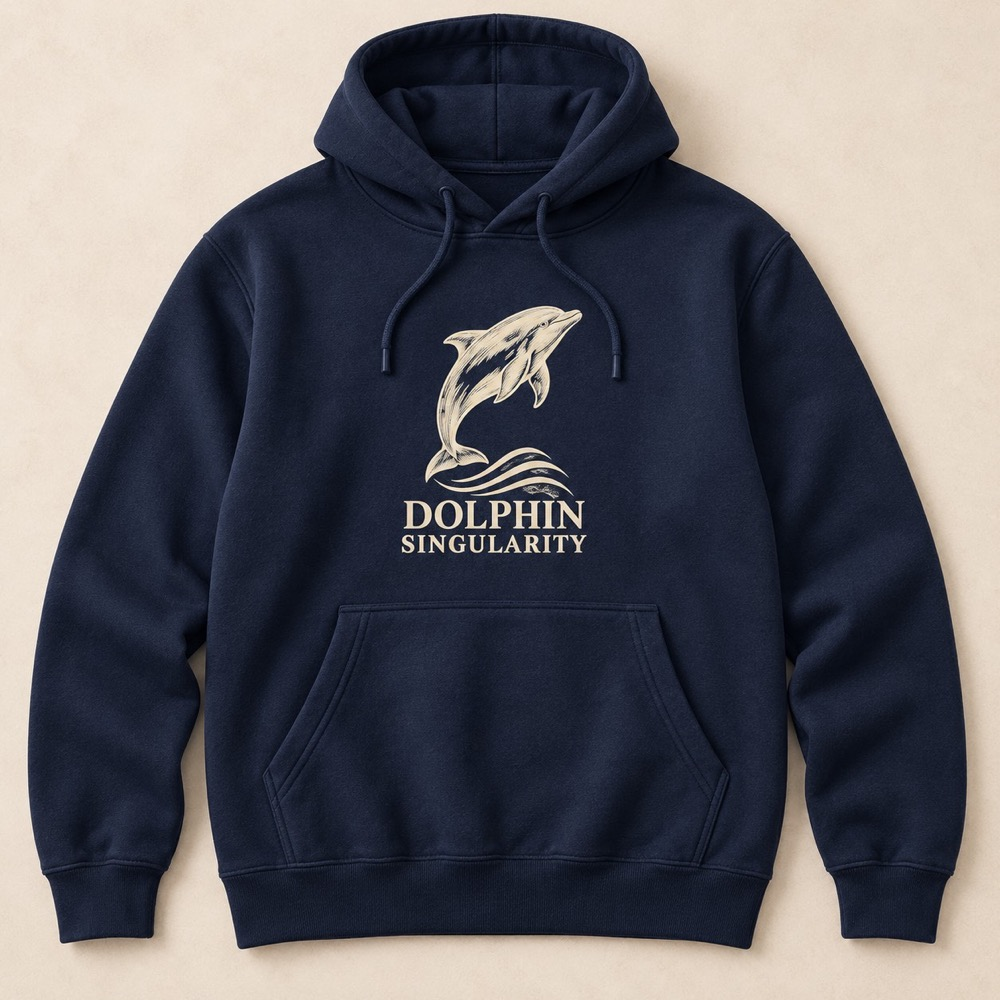
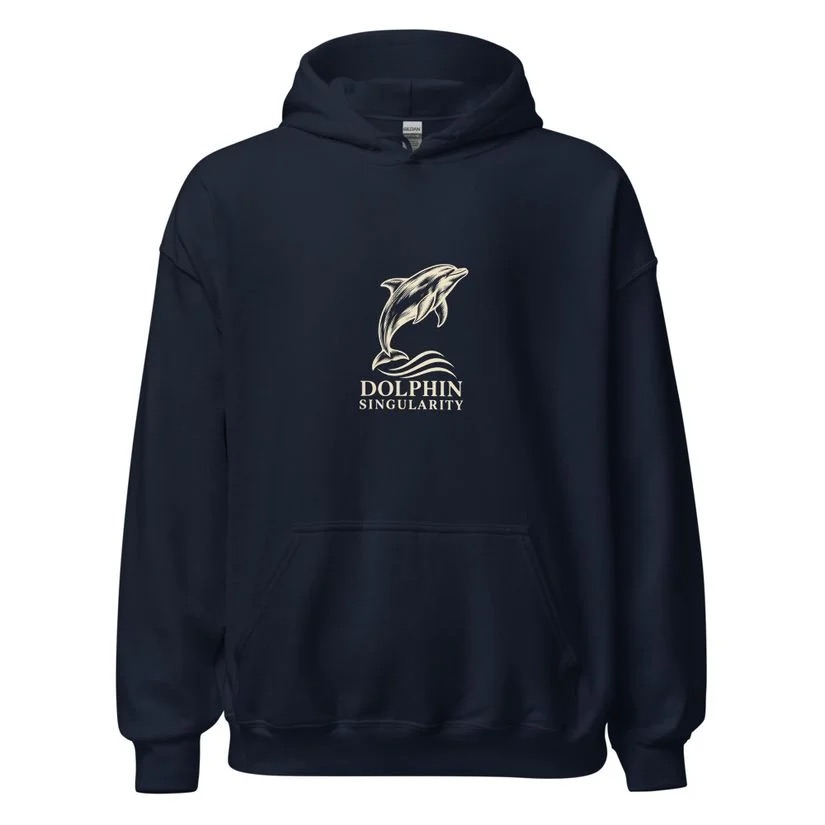
Connect published Printful products and refine graphic placement

diff --git a/store.html b/store.html
@@ -46,11 +46,11 @@
                 <p class="merch-hero__intro">For complicated minds.<br>And anyone making weird noises.</p>
                 <p class="merch-hero__description">Original dolphin artwork, everyday tees, and a hoodie for the quieter days. A little ocean intelligence. A healthy disrespect for unnecessary meetings.</p>
                 <a class="merch-button" href="#collection">Explore the collection <span aria-hidden="true">&darr;</span></a>
-                <p class="merch-hero__note" id="shopStatus">Collection preview &nbsp;&middot;&nbsp; Orders are not open yet</p>
+                <p class="merch-hero__note" id="shopStatus">Shop on Printful &nbsp;&middot;&nbsp; US delivery</p>
             </div>
             <figure class="merch-hero__image">
-                <img src="images/merch/classic-tee.jpg" alt="The Original Tee concept: ivory engraved dolphin artwork on a midnight navy shirt" width="1000" height="1000" fetchpriority="high">
-                <figcaption>01 / The Original Tee <span>Design mockup</span></figcaption>
+                <img src="images/merch/classic-tee.jpg" alt="Supplier mockup of ivory dolphin artwork on the navy Original Tee" width="1000" height="1000" fetchpriority="high">
+                <figcaption>01 / The Original Tee <span>Printful mockup</span></figcaption>
             </figure>
         </header>
         <div class="merch-strip">
@@ -71,7 +71,7 @@
             <div class="merch-grid">
                 <article class="merch-card" data-product="classic-tee" data-collection="originals" data-kind="T-shirt">
                     <a class="merch-card__image-link" href="images/merch/classic-tee.jpg" data-preview="classic-tee" aria-label="Preview The Original Tee">
-                        <img src="images/merch/classic-tee.jpg" alt="Design mockup of The Original Tee in Midnight navy / ivory" width="1000" height="1000" loading="lazy">
+                        <img src="images/merch/classic-tee.jpg" alt="Supplier mockup of The Original Tee in Midnight navy / ivory" width="1000" height="1000" loading="lazy">
                         <span class="merch-card__tag">T-shirt</span>
                     </a>
                     <div class="merch-card__body">
@@ -79,14 +79,14 @@
                         <h3>The Original Tee</h3>
                         <p>An engraved dolphin, flowing acoustic lines, and the Dolphin Singularity wordmark. The original design in a classic crewneck format.</p>
                         <div class="merch-card__bottom">
-                            <span class="merch-card__price">Pricing at launch</span>
-                            <a href="images/merch/classic-tee.jpg" class="merch-card__action" data-preview="classic-tee">View design <span aria-hidden="true">&rarr;</span></a>
+                            <span class="merch-card__price">$29</span>
+                            <a href="https://dolphinsingularity.printful.me/product/the-original-tee-dolphin-singularity" class="merch-card__action">Choose size on Printful <span aria-hidden="true">&rarr;</span></a>
                         </div>
                     </div>
                 </article>
                 <article class="merch-card" data-product="classic-hoodie" data-collection="originals" data-kind="Hoodie">
                     <a class="merch-card__image-link" href="images/merch/classic-hoodie.jpg" data-preview="classic-hoodie" aria-label="Preview The Original Hoodie">
-                        <img src="images/merch/classic-hoodie.jpg" alt="Design mockup of The Original Hoodie in Midnight navy / ivory" width="1000" height="1000" loading="lazy">
+                        <img src="images/merch/classic-hoodie.jpg" alt="Supplier mockup of The Original Hoodie in Midnight navy / ivory" width="1000" height="1000" loading="lazy">
                         <span class="merch-card__tag">Hoodie</span>
                     </a>
                     <div class="merch-card__body">
@@ -94,29 +94,29 @@
                         <h3>The Original Hoodie</h3>
                         <p>The same dolphin artwork, scaled for the chest of a pullover hoodie. A quieter companion to the graphic tees.</p>
                         <div class="merch-card__bottom">
-                            <span class="merch-card__price">Pricing at launch</span>
-                            <a href="images/merch/classic-hoodie.jpg" class="merch-card__action" data-preview="classic-hoodie">View design <span aria-hidden="true">&rarr;</span></a>
+                            <span class="merch-card__price">$49</span>
+                            <a href="https://dolphinsingularity.printful.me/product/the-original-hoodie-dolphin-singularity" class="merch-card__action">Choose size on Printful <span aria-hidden="true">&rarr;</span></a>
                         </div>
                     </div>
                 </article>
                 <article class="merch-card" data-product="whistle-meeting" data-collection="graphics" data-kind="T-shirt">
                     <a class="merch-card__image-link" href="images/merch/whistle-meeting-tee.jpg" data-preview="whistle-meeting" aria-label="Preview The Meeting Tee">
-                        <img src="images/merch/whistle-meeting-tee.jpg" alt="Design mockup of The Meeting Tee in Natural / ocean teal" width="1000" height="1000" loading="lazy">
+                        <img src="images/merch/whistle-meeting-tee.jpg" alt="Supplier mockup of The Meeting Tee in Natural / ocean teal" width="1000" height="1000" loading="lazy">
                         <span class="merch-card__tag">T-shirt</span>
                     </a>
                     <div class="merch-card__body">
                         <p class="merch-eyebrow">Natural / ocean teal</p>
                         <h3>The Meeting Tee</h3>
-                        <p>“This meeting could have been a whistle.” For everyone who has sat through a forty-minute conversation with about three seconds of useful information.</p>
+                        <p>A very tired dolphin, one tiny laptop, and absolutely no caption needed. A larger illustration centered on the chest for everyone with one meeting too many.</p>
                         <div class="merch-card__bottom">
-                            <span class="merch-card__price">Pricing at launch</span>
-                            <a href="images/merch/whistle-meeting-tee.jpg" class="merch-card__action" data-preview="whistle-meeting">View design <span aria-hidden="true">&rarr;</span></a>
+                            <span class="merch-card__price">$29</span>
+                            <a href="https://dolphinsingularity.printful.me/product/the-meeting-tee-this-meeting-could-have-been-a-whistle" class="merch-card__action">Choose size on Printful <span aria-hidden="true">&rarr;</span></a>
                         </div>
                     </div>
                 </article>
                 <article class="merch-card" data-product="fluent-dolphin" data-collection="graphics" data-kind="T-shirt">
                     <a class="merch-card__image-link" href="images/merch/fluent-dolphin-tee.jpg" data-preview="fluent-dolphin" aria-label="Preview The Fluent Tee">
-                        <img src="images/merch/fluent-dolphin-tee.jpg" alt="Design mockup of The Fluent Tee in Natural / ocean teal" width="1000" height="1000" loading="lazy">
+                        <img src="images/merch/fluent-dolphin-tee.jpg" alt="Supplier mockup of The Fluent Tee in Natural / ocean teal" width="1000" height="1000" loading="lazy">
                         <span class="merch-card__tag">T-shirt</span>
                     </a>
                     <div class="merch-card__body">
@@ -124,14 +124,14 @@
                         <h3>The Fluent Tee</h3>
                         <p>“Fluent in EEE EEE EEE.” Excellent communication skills. Unconventional delivery. A confident little dolphin with a lot to say.</p>
                         <div class="merch-card__bottom">
-                            <span class="merch-card__price">Pricing at launch</span>
-                            <a href="images/merch/fluent-dolphin-tee.jpg" class="merch-card__action" data-preview="fluent-dolphin">View design <span aria-hidden="true">&rarr;</span></a>
+                            <span class="merch-card__price">$29</span>
+                            <a href="https://dolphinsingularity.printful.me/product/the-fluent-tee-eee-eee-eee" class="merch-card__action">Choose size on Printful <span aria-hidden="true">&rarr;</span></a>
                         </div>
                     </div>
                 </article>
                 <article class="merch-card" data-product="weird-noises" data-collection="graphics" data-kind="T-shirt">
                     <a class="merch-card__image-link" href="images/merch/weird-noises-tee.jpg" data-preview="weird-noises" aria-label="Preview The Highly Intelligent Tee">
-                        <img src="images/merch/weird-noises-tee.jpg" alt="Design mockup of The Highly Intelligent Tee in Natural / ocean teal" width="1000" height="1000" loading="lazy">
+                        <img src="images/merch/weird-noises-tee.jpg" alt="Supplier mockup of The Highly Intelligent Tee in Natural / ocean teal" width="1000" height="1000" loading="lazy">
                         <span class="merch-card__tag">T-shirt</span>
                     </a>
                     <div class="merch-card__body">
@@ -139,30 +139,30 @@
                         <h3>The Highly Intelligent Tee</h3>
                         <p>“Highly intelligent. Still making weird noises.” Two things can be true. A cheerful tribute to complicated minds and unusual conversations.</p>
                         <div class="merch-card__bottom">
-                            <span class="merch-card__price">Pricing at launch</span>
-                            <a href="images/merch/weird-noises-tee.jpg" class="merch-card__action" data-preview="weird-noises">View design <span aria-hidden="true">&rarr;</span></a>
+                            <span class="merch-card__price">$29</span>
+                            <a href="https://dolphinsingularity.printful.me/product/the-highly-intelligent-tee-weird-noises" class="merch-card__action">Choose size on Printful <span aria-hidden="true">&rarr;</span></a>
                         </div>
                     </div>
                 </article>
             </div>
-            <p class="merch-caption">Images are design mockups. Final garment options, sizing, placement, and prices will be confirmed in the live Printful product listings.</p>
+            <p class="merch-caption">Images are supplier-generated Printful mockups of the configured products. Check the product listing for current sizes, prices, and delivery estimates. Color and placement may vary slightly in production.</p>
         </section>
         <section class="merch-about" aria-labelledby="merchAboutHeading">
             <div><p class="merch-eyebrow">A serious interest. An unserious wardrobe.</p><h2 id="merchAboutHeading">Big brains.<br>Good company.</h2></div>
             <div>
                 <p>Dolphin Singularity explores the strange, fascinating space between animal minds and human technology. This collection takes that curiosity off the page.</p>
                 <p>The original tee and hoodie carry the publication’s dolphin artwork. The graphic tees are for people who appreciate a clever animal, a questionable noise, and a joke that does not need a footnote. The slogans are jokes, not translations of dolphin calls.</p>
-                <p>Start with the design that feels like you. When the shop opens, the linked Printful listing will show the actual garment, available sizes, price, and delivery information before you buy.</p>
+                <p>Start with the design that feels like you. The linked Printful listing shows the garment, available sizes, price, and delivery information before you buy.</p>
                 <a href="research.html">Meet the research behind the curiosity &rarr;</a>
             </div>
         </section>
         <section class="merch-faq" aria-labelledby="faqHeading">
             <p class="merch-eyebrow">Before you make a splash</p>
             <h2 id="faqHeading">The practical details.</h2>
-            <details><summary>Can I order now?</summary><p id="orderingAnswer">Not yet. This is the collection preview while the Printful shop and Stripe payouts are being connected. There is no checkout or payment collection on this page. Product links will appear here when the shop opens.</p></details>
-            <details><summary>How will printing and shipping work?</summary><p>The planned shop uses Printful Quick Stores. Customers order through Printful’s hosted store, with payment processed by Stripe. Printful makes each item to order and handles delivery. Production and delivery estimates will be shown in the live listing and checkout.</p></details>
+            <details><summary>Can I order now?</summary><p id="orderingAnswer">Yes. Choose a design and follow “Choose size on Printful” to select your size and order through the Dolphin Singularity Printful store. Shipping and taxes are calculated at checkout.</p></details>
+            <details><summary>How will printing and shipping work?</summary><p>The shop uses Printful Quick Stores. Customers order through Printful’s hosted store, with payment processed by Stripe. Printful makes each item to order and handles delivery. Production and delivery estimates are shown in the listing and checkout.</p></details>
             <details><summary>Where will the collection ship?</summary><p>The launch is for US delivery addresses through Printful Quick Stores. International delivery is not part of this first launch.</p></details>
-            <details><summary>How do I choose my size?</summary><p>Use the size guide on the live product listing and compare its measurements with clothing you already own. Fit can differ between garment styles. The mockups here show the artwork direction; they are not size or fit references.</p></details>
+            <details><summary>How do I choose my size?</summary><p>Use the size guide on the live product listing and compare its measurements with clothing you already own. Fit can differ between garment styles. The supplier mockups show the configured print; use the garment measurements to judge fit.</p></details>
             <details><summary>What about returns or a problem with an order?</summary><p>Printful Quick Stores handles order support. Made-to-order items are not eligible for size, color, or change-of-mind exchanges. Its current policy covers qualifying damaged or defective items, with claims made within 30 days of delivery. Review the policy in the Printful shop before buying.</p><p><a href="https://help.printful.com/hc/en-us/articles/50265768078737-How-are-Quick-Stores-customer-issues-and-returns-handled">Read Printful’s current customer-support policy &rarr;</a></p></details>
             <details><summary>Have a design idea?</summary><p>We are listening. Send Noah your dolphin-communication joke or a note about a design you would like to see. Please use Printful support for an existing order.</p><p><a href="contact.html">Contact Noah &rarr;</a></p></details>
         </section>
@@ -202,7 +202,7 @@
     <dialog class="merch-dialog" id="designDialog" aria-labelledby="dialogTitle">
         <button class="merch-dialog__close" type="button" aria-label="Close design preview">&times;</button>
         <img id="dialogImage" src="images/merch/classic-tee.jpg" alt="" width="1000" height="1000">
-        <div class="merch-dialog__copy"><p class="merch-eyebrow" id="dialogKind"></p><h2 id="dialogTitle">Design preview</h2><p id="dialogDescription"></p><p class="merch-caption">Design mockup. Orders are not open yet.</p></div>
+        <div class="merch-dialog__copy"><p class="merch-eyebrow" id="dialogKind"></p><h2 id="dialogTitle">Design preview</h2><p id="dialogDescription"></p><p class="merch-caption">Supplier mockup. See Printful for garment details and sizing.</p></div>
     </dialog>
     <script src="js/navigation.js" defer></script>
     <script src="js/merch-store.js" defer></script>

diff --git a/js/merch-store.js b/js/merch-store.js
@@ -34,7 +34,7 @@ document.addEventListener('DOMContentLoaded', async () => {
         catalog = await response.json();
         if (!Array.isArray(catalog.products)) return;
     } catch (_) {
-        // Direct image links and the full collection remain usable without the catalog.
+        // Product links and the full collection remain usable without the catalog.
         return;
     }
 
@@ -63,12 +63,12 @@ document.addEventListener('DOMContentLoaded', async () => {
             event.preventDefault();
             const image = document.getElementById('dialogImage');
             image.src = product.image;
-            image.alt = `Design mockup of ${product.name}`;
+            image.alt = `Supplier mockup of ${product.name}`;
             document.getElementById('dialogTitle').textContent = product.name;
             document.getElementById('dialogKind').textContent = `${product.kind} / ${product.color}`;
             document.getElementById('dialogDescription').textContent = product.description;
             dialog.querySelector('.merch-caption').textContent = catalog.launchStatus === 'live' && validProductUrl(product.productUrl)
-                ? 'Design mockup. See the Printful listing for final garment details, sizing, and pricing.'
+                ? 'Supplier mockup. See the Printful listing for garment details, sizing, and current pricing.'
                 : 'Design mockup. This item is not open for orders yet.';
             dialog.showModal();
         });

diff --git a/MERCH_STORE_SETUP.md b/MERCH_STORE_SETUP.md
@@ -1,38 +1,41 @@
 # Dolphin Singularity merchandise
 
-The storefront is `store.html`. It uses the existing static-site hosting and a Printful Quick Store for actual product options, Stripe-powered checkout, printing, shipping, and customer support. No Stripe secret or Printful API key belongs in this repository.
+`store.html` links to the US-only [Dolphin Singularity Printful Quick Store](https://dolphinsingularity.printful.me/). Printful hosts product options, Stripe-powered customer checkout, on-demand printing, shipping, and order support. No payment secrets belong in this repository.
 
-## Collection
+## Published collection — October 6, 2026
 
-| Product | Artwork | Intended blank/color | Initial print width |
-| --- | --- | --- | --- |
-| The Original Tee | `images/merch/dolphin-ivory-print.png` | Bella + Canvas 3001, Navy | 7 inches |
-| The Original Hoodie | same ivory artwork | Gildan 18500, Navy | 6 inches |
-| The Meeting Tee | `images/merch/whistle-meeting-print.png` | Bella + Canvas 3001, Natural | 7 inches |
-| The Fluent Tee | `images/merch/fluent-dolphin-print.png` | Bella + Canvas 3001, Natural | 7 inches |
-| The Highly Intelligent Tee | `images/merch/weird-noises-print.png` | Bella + Canvas 3001, Natural | 7 inches |
+| Product | Blank and color | Sizes | Price | Print file / dimensions | Printful quality | Product ID |
+| --- | --- | --- | --- | --- | --- | --- |
+| The Original Tee | Bella + Canvas 3001, Navy | XS–5XL | $29 | `dolphin-ivory-print.png`, 7 × 8.4 in | Good / 164 DPI | 478861615 |
+| The Original Hoodie | Gildan 18500, Navy | S–5XL | $49 | same ivory art, 6 × 7.2 in | Good / 191 DPI | 478866239 |
+| The Meeting Tee — Dolphin at Work | Bella + Canvas 3001, Natural | XS–4XL | $29 | `dolphin-laptop-print.png`, 10 × 6.67 in | Good / 154 DPI | 478862416 |
+| The Fluent Tee | Bella + Canvas 3001, Natural | XS–4XL | $29 | `fluent-dolphin-print.png`, 9 × 9 in | Good / 139 DPI | 478865371 |
+| The Highly Intelligent Tee — Weird Noises | Bella + Canvas 3001, Natural | XS–4XL | $29 | `weird-noises-print.png`, 10 × 10 in | Good / 125 DPI | 478864774 |
 
-Blank availability, colors, print placement, and sizes must be confirmed in Printful's product editor. Use the transparent PNG artwork, not a garment mockup, as the print file. Check the editor's effective DPI and print-quality warnings at the actual chosen dimensions. Do not enlarge files just to change the DPI number. Preview images are AI-generated concepts; replace them with supplier mockups after configuring the real products.
+All products use DTG front prints and plain backs. Graphic tees are horizontally centered and moved approximately 1.9 inches down from the print area's top alignment, following the owner's request for lower chest placement. Meeting art has no text. Weird Noises retains the original approved artwork and is 43% wider than the initial 7-inch plan. Dimensions include transparent artwork margins; printed ink occupies a smaller area. Hoodie artwork sits above the pouch.
 
-## Activate product links
+The website photos are actual supplier-generated mockups from these configured products. Mockups are not photographs of physical samples. Printful rated every final design “Good”; no physical sample or paid order was purchased. Artwork was not artificially enlarged to change DPI metadata. The old `whistle-meeting-print.png` is retained as an unused earlier design; the active Meeting Tee uses the laptop-only file.
 
-`merch-catalog.json` contains public product metadata only. Set each `productUrl` to the verified HTTPS product URL from the owner's Printful Quick Store. Set `priceLabel` only from the current listing; otherwise the UI can say “See current price.” Set `storeUrl` to the verified store address and `launchStatus` to `live` only when the store and customer checkout are ready. The frontend accepts only HTTPS `*.printful.me` product URLs.
+## Product links
 
-Unconfigured products remain clearly labeled previews. Clicking a preview opens the design, not a fake cart. With JavaScript unavailable, the cards still link to their preview images.
+`merch-catalog.json` contains verified public product URLs, prices, and artwork metadata. Its `launchStatus` is `live` because all five listings and the customer checkout entry are available. This status does not assert that merchant payout onboarding is complete. Static HTML also contains purchase links and prices so ordering links work without JavaScript. Image previews, filters, and product details are enhanced by `js/merch-store.js`.
 
-## Account steps
+The Meeting Tee retains its original public URL slug even though its title and artwork changed. Preserve that verified URL unless Printful changes it.
 
-The owner selected a US-only Printful Quick Store. The store-creation form is prepared as Dolphin Singularity with the requested address `dolphinsingularity.printful.me`; this is not proof of creation or availability. The owner must review and accept the Quick Stores terms. Printful's Billing → Quick Stores flow handles Stripe payout onboarding. The owner must personally provide any requested identity, banking, and tax information and accept associated agreements.
+## Owner-only payout step
 
-After setup, add the actual products, check pricing and variants, verify the public listings and checkout entry without placing a paid order, then activate the website links. Do not describe payouts, fulfillment, or checkout as connected until the account confirms that state.
+The owner explicitly authorized accepting Printful's Quick Stores terms, and store 18866819 was created on October 6, 2026. Stripe payout onboarding remains unconfirmed. The latest observed Billing → Quick Stores screen showed “Set up payouts.” The owner must personally enter identity, banking, and tax information and accept any payout agreements in Printful/Stripe.
 
-## Current hosting
+Customer checkout entry was verified with a Navy/M Original Tee at $29. The flow showed contact, shipping, and payment steps. No personal checkout information or payment was submitted, no paid order was placed, and the test cart was cleared. Completed payments, actual fulfillment, and merchant payouts have not been tested.
 
-The repository deploys its `main` branch to GitHub Pages. Its configured custom domain is `dolphinsingularity.org`; changes on the repair branch are not published until merged/deployed. The separate `.com` domain needs DNS configuration. Printful Quick Stores does not use the custom domain; visitors continue from this site's shop page to Printful checkout.
+## Website deployment
+
+The repository deploys `main` to GitHub Pages. The repair branch has not been merged or deployed. The configured domain is `dolphinsingularity.org`; the separate `.com` domain still needs DNS configuration. Printful Quick Stores remains on its own `printful.me` address.
 
 ## Primary references
 
-- Quick Stores: https://help.printful.com/hc/en-us/articles/50265713299857-How-is-Quick-Stores-different-from-ecommerce-platform-integrations
-- Stripe payment and payout flow: https://help.printful.com/hc/en-us/articles/50265775755281-How-do-Quick-Stores-payments-work
-- File preparation: https://help.printful.com/hc/en-us/articles/50264019148177-How-should-I-prepare-my-print-file-for-the-best-results
-- Customer issues and returns: https://help.printful.com/hc/en-us/articles/50265768078737-How-are-Quick-Stores-customer-issues-and-returns-handled
+- [T-shirt placement](https://www.printful.com/blog/t-shirt-design-placement-guide)
+- [Quick Stores](https://help.printful.com/hc/en-us/articles/50265713299857-How-is-Quick-Stores-different-from-ecommerce-platform-integrations)
+- [Stripe payments and payouts](https://help.printful.com/hc/en-us/articles/50265775755281-How-do-Quick-Stores-payments-work)
+- [Print file preparation](https://help.printful.com/hc/en-us/articles/50264019148177-How-should-I-prepare-my-print-file-for-the-best-results)
+- [Customer issues and returns](https://help.printful.com/hc/en-us/articles/50265768078737-How-are-Quick-Stores-customer-issues-and-returns-handled)
